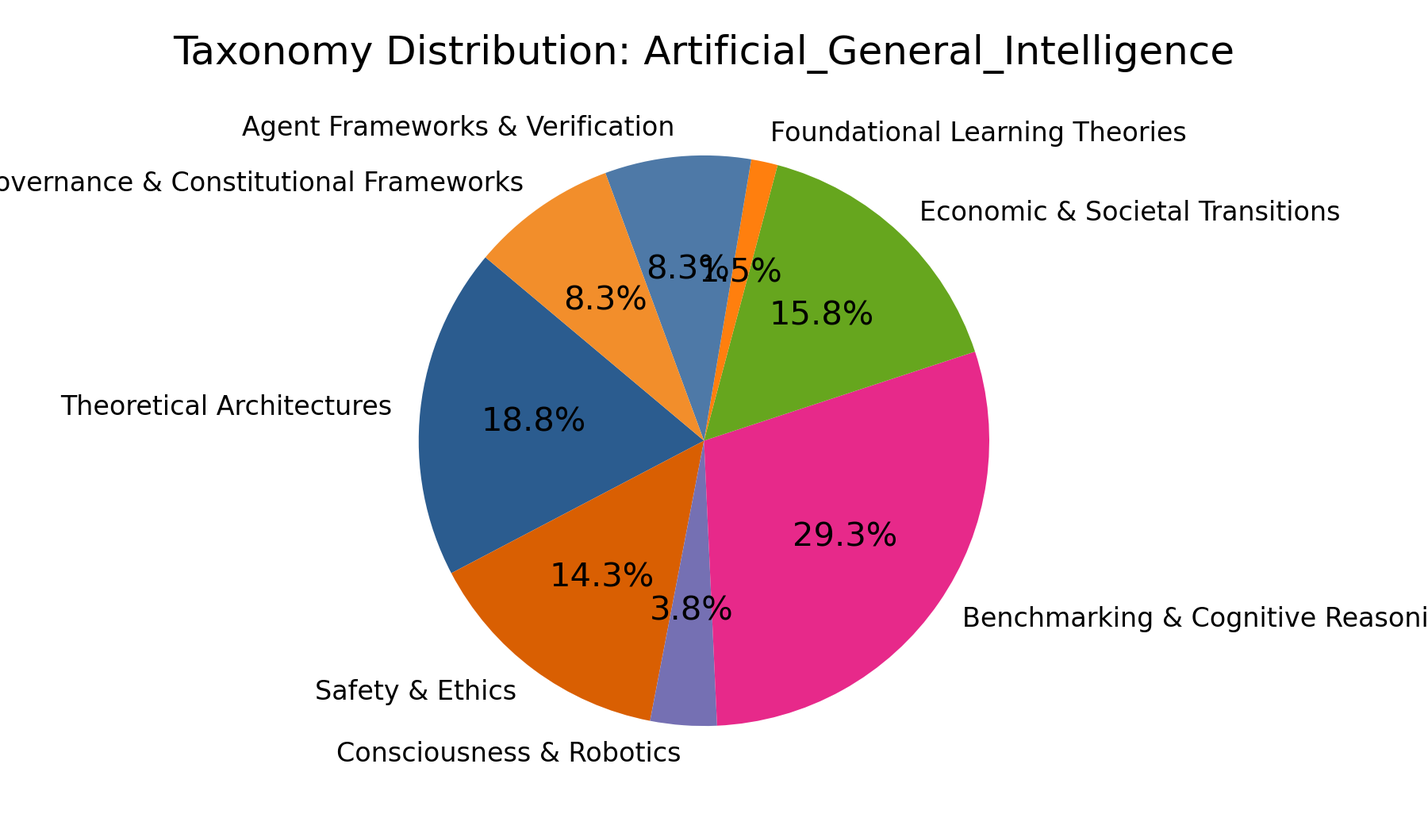
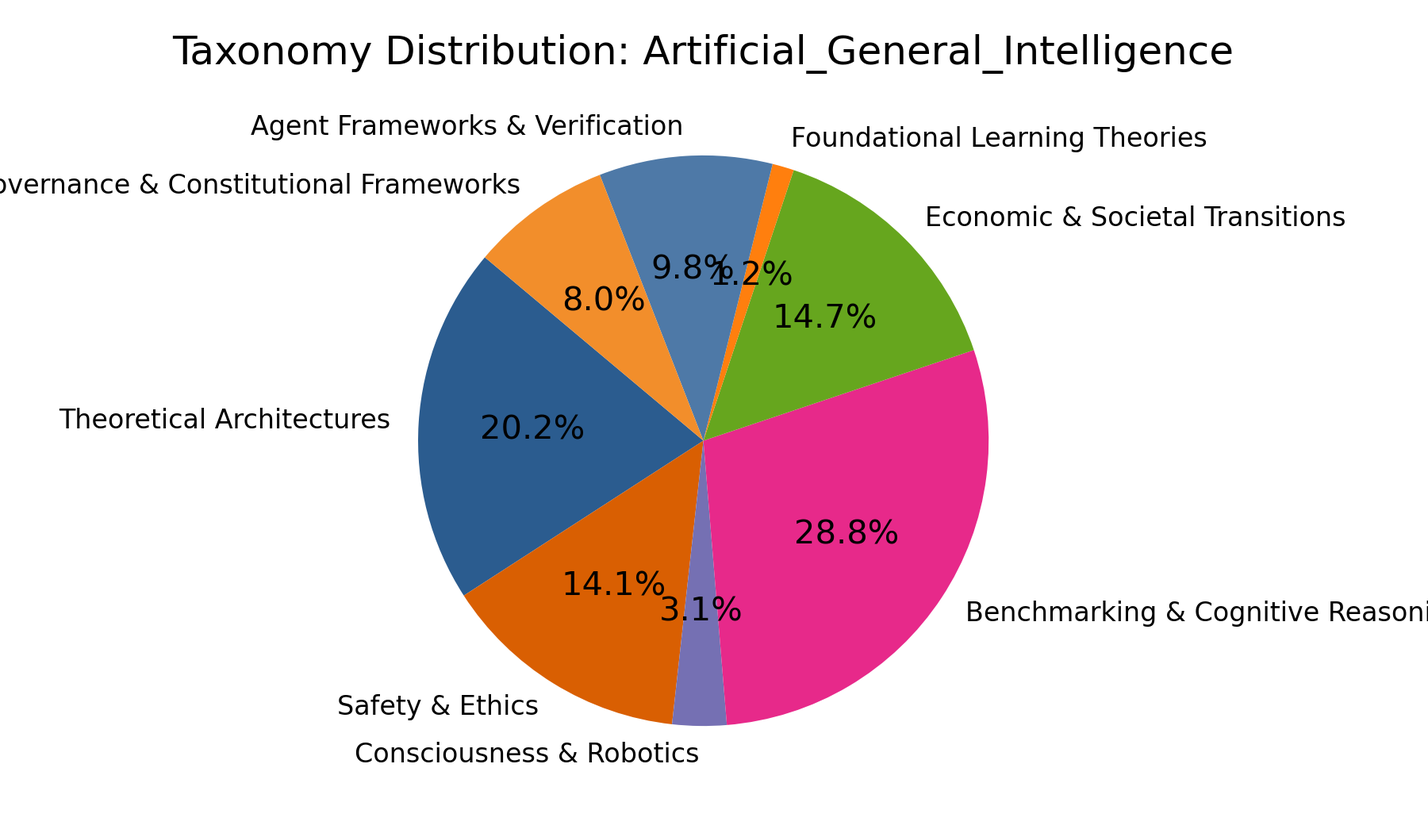
feat(artificial_general_intelligence): integrated valid papers (LSS: 90.34)

diff --git a/surveys/artificial_general_intelligence/generate_figures.py b/surveys/artificial_general_intelligence/generate_figures.py
@@ -11,8 +11,8 @@ plt.rcParams.update({'font.size': 10, 'axes.labelsize': 11, 'axes.titlesize': 12
 
 SURVEY_TITLE = "Artificial_General_Intelligence"
 # [AI AGENT ZONE] Edit only these dictionaries
-TIMELINE_DATA = {"2022": 1, "2023": 2, "2024": 2, "2025": 0, "2026": 128}
-TAXONOMY_DATA = {"Theoretical Architectures": 25, "Safety & Ethics": 19, "Consciousness & Robotics": 5, "Benchmarking & Cognitive Reasoning": 39, "Economic & Societal Transitions": 21, "Foundational Learning Theories": 2, "Agent Frameworks & Verification": 11, "Governance & Constitutional Frameworks": 11}
+TIMELINE_DATA = {"2022": 1, "2023": 2, "2024": 2, "2025": 0, "2026": 158}
+TAXONOMY_DATA = {"Theoretical Architectures": 33, "Safety & Ethics": 23, "Consciousness & Robotics": 5, "Benchmarking & Cognitive Reasoning": 47, "Economic & Societal Transitions": 24, "Foundational Learning Theories": 2, "Agent Frameworks & Verification": 16, "Governance & Constitutional Frameworks": 13}
 
 def plot_publication_timeline():
     years, counts = list(TIMELINE_DATA.keys()), list(TIMELINE_DATA.values())

diff --git a/surveys/artificial_general_intelligence/artificial_general_intelligence.md b/surveys/artificial_general_intelligence/artificial_general_intelligence.md
@@ -18,6 +18,8 @@ Recent explorations into architectural foundations emphasize structural cycles a
 
 The conceptual boundary between narrow and general intelligence is being actively redefined. Kriuk (2026) introduces Artificial Adaptive Intelligence (AAI) as a distinct regime bridging ANI and AGI, characterized by the removal of human-specified hyperparameters through meta-learning and evolutionary computation[^2605.16844]. This adaptive paradigm is further explored by Liao et al. (2026), who argue that Agentic AI systems, utilizing Directed Acyclic Graph topologies, offer exponentially superior generalization and sample efficiency compared to monolithic scaling, positioning them as a necessary pathway to AGI[^2605.12966]. In terms of architectural foundations, Alaswad et al. (2026) highlight the limitations of sequence prediction in LLMs for long-horizon planning, proposing Latent Dynamics Inference (LDI) and explicit state-transition simulators to enable robust dynamic reasoning[^2605.23972]. On the hardware and deployment front, Chen et al. (2026) propose SpaceMoE, a distributed Mixture-of-Experts inference paradigm tailored for satellite networks, addressing the stringent memory and energy constraints of on-orbit AGI systems[^2605.16849]. Furthermore, Morales (2026) presents *The Architecture of Permanence*, claiming a deterministic seed and sparse reference anchoring can solve catastrophic forgetting and establish a stable foundation for AGI safety across multiple domains[^10.5281_zenodo.21245473]. Empirical studies on recursive models also inform architectural choices; Awangga et al. (2026) demonstrate that shallow recursion depths in Tiny Recursive Models yield better accuracy-per-joule trade-offs on symbolic reasoning tasks compared to deeper configurations[^10.5281_zenodo.21181342]. Finally, Cristianini (2026) examines the Scaling Hypothesis, noting that while some cognitive properties emerge at scale, further innovations beyond mere computational expansion may be required to achieve true AGI[^10.1201_9781003737339-12].
 
+Pathways to AGI (2605.06029) examines critical software studies perspectives, analyzing decision points and leverage nodes across proprietary, open-weight, and sovereign model trajectories to identify socio-technical programs that could plausibly advance toward AGI-adjacent capabilities while ensuring transparency and sustainability[^2605.06029]. The cognitive evolution of generative models remains highly uneven; Galatzer-Levy et al. (2605.06815) demonstrate that while verbal comprehension and working memory approach ceiling performance, perceptual reasoning and visual-perceptual organization lag significantly, revealing an architectural bias toward language-based symbolic manipulation that challenges scaling-only approaches to balanced general intelligence[^2605.06815]. In terms of structural frameworks, a category-theoretic comparative approach (2603.28906) offers an algebraic foundation to unify and analyze diverse AGI architectures like RL, Active Inference, and Schema-based Learning, exposing their commonalities and highlighting research gaps[^2603.28906]. The conceptual boundaries of superintelligence are further scrutinized by Perrier (2604.19845), who formalizes self-modification on an associative operator algebra, showing that strong self-modification may undermine the persistent identity required for superintelligence, coinciding with Priest's inclosure schema and Derrida's différance[^2604.19845]. Additionally, the thermodynamic limits of algorithmic speed-ups are explored in the watts-per-intelligence framework, proving that class-specific speed-ups are bounded by algorithmic mutual information and incur minimum thermodynamic costs via Landauer erasure[^2604.20897]. The psychometric concept of general intelligence ($G$) is also re-evaluated; Krakauer (2604.09911) applies principal component analysis to model benchmark performance over time, revealing a strong positive manifold that peaks around 2023-2024 before rotating as models outsource reasoning to tools, suggesting AI models exhibit general intelligence that suppresses specialized intelligences[^2604.09911]. From an engineering perspective, an operational definition of AGI shifts the unit of judgment from local capabilities to complex-project closure, defining AGI as a system capable of reliably completing representative complex projects without continuous human direction while producing verifiable deliverables[^10.5281_zenodo.21927623]. Finally, deterministic cognitive engineering proposes that establishing a fixed, sparse reference point and letting remaining parameters adapt around it can solve catastrophic forgetting and establish a stable foundation for AGI safety, claiming to replace quantum computing with classical silicon through spectral primality tests and topological memory protection[^10.5281_zenodo.22825503].
+
 ## Safety, Ethics, and Societal Implications
 
 As AGI capabilities advance, the discourse around safety, conceptual discipline, and ethical frameworks has intensified. Stahl and Eke (2026) critique the European Commission's recent calls for AGI in healthcare, arguing that the term "AGI" is fundamentally problematic due to its contested nature and potential for unpredictable risks. They advocate for conceptual discipline and adherence to the precautionary principle in EU AI policy[^10.1016_j.jrt.2026.100183].
@@ -28,9 +30,11 @@ Tegmark and Omohundro (2023) propose a technical pathway to controllable AGI thr
 
 The trajectory toward AGI necessitates rigorous ethical and economic frameworks. Ruan et al. (2026) propose Return on Flourishing (RoF) as a primary success criterion for AI and post-AGI economic systems, extending ROI to evaluate counterfactual contributions to human and planetary well-being across physical, emotional, and relational dimensions[^2608.00151]. Cochinescu (2026) hypothesizes that perceived AGI believability stems from dimensional completeness—expressing first-person stances across time, truth, entropy, and love—rather than raw task capability, separating perceived mind from intelligence[^2607.15883]. Van Belle (2026) inverts AI ethics by examining how future sentient ASI might morally evaluate humanity, suggesting that technical design choices and humanity's moral behavior will shape our long-term standing in a post-ASI world[^2607.14998]. Maclean (2026) argues for Constitutive Co-Evolution (CCE), positing that humans and AI are structurally dependent, with human relationships providing grounded values and external error correction that advanced AI cannot generate internally[^10.5281_zenodo.22843331]. Li (2026) models post-AGI labor substitution as a structural phase transition, showing that even perfectly aligned AGI can drive societal obsolescence through synergistic functions and hysteresis, independent of alignment failures[^10.5281_zenodo.22843902]. Li (2026) further argues that traditional safety institutions rely on passivity and shared substrates that AGI violates, necessitating verifiable capability measurement and capability-permission separation[^10.5281_zenodo.22844023].
 
-The mathematical and conceptual limits of AGI safety continue to be rigorously defined. Briones (2026) develops DAF-AGI, a second-order conceptual artifact that treats AGI under-specification as a design and governance problem, proposing definitional sovereignty as an enabling component of algorithmic sovereignty[^2606.12713]. Maclean (2026) argues that caring is a biological achievement produced by neurochemical architecture, introducing the Relational Medium as a continuous flow of live outcome feedback necessary for AI values to remain functional rather than frozen[^10.5281_zenodo.22843449]. Li (2026) argues that traditional safety institutions rely on passivity and shared substrates that AGI violates, necessitating verifiable capability measurement and capability-permission separation[^10.5281_zenodo.22844022]. Turner (2026) presents a conceptual foundation for AGI, proposing a normative alignment solution that reduces the problem of building a practically-maximally-aligned agentic superintelligence to building a compliant non-agentic goal-less agent[^10.5281_zenodo.22849237].
+The mathematical and conceptual limits of AGI safety continue to be rigorously defined. Briones (2026) develops DAF-AGI, a second-order conceptual artifact that treats AGI under-specification as a design and governance problem, proposing definitional sovereignty as an enabling component of algorithmic sovereignty[^2606.12713]. Maclean (2026) argues that caring is a biological achievement produced by neurochemical architecture, introducing the Relational Medium as a continuous flow of live outcome feedback necessary for AI values to remain functional rather than frozen[^10.5281_zenodo.22843449]. Li (2026) further argues that traditional safety institutions rely on passivity and shared substrates that AGI violates, necessitating verifiable capability measurement and capability-permission separation[^10.5281_zenodo.22844022]. Turner (2026) presents a conceptual foundation for AGI, proposing a normative alignment solution that reduces the problem of building a practically-maximally-aligned agentic superintelligence to building a compliant non-agentic goal-less agent[^10.5281_zenodo.22849237].
 
 The governance and safety of AGI demand new legal and conceptual frameworks. Hatta (2026) argues that AGI systems violate the technical premise of copyleft licenses, proposing that a functional analogue for AGI must be grounded in reproducible builds guaranteeing bit-exact reconstructability from declared inputs[^2606.03019]. Orban (2026) develops a phenomenological constitutive law for institutional coordination inspired by metamaterials, predicting phase transitions between self-healing and self-destabilizing regimes as AI decision velocity outpaces human verification capacity[^2606.00235]. Baack et al. (2026) analyze benchmarking cultures, revealing that highlighted benchmarks function as flexible narrative devices for market positioning rather than standardized measurement tools, often deemphasizing construct validity in favor of AGI progress claims[^2605.14164]. Pérez Martínez (2026) presents a provisional constitutional framework for human-AGI coexistence, establishing evidentiary procedures for uncertain claims and addressing agency and reputation-based allocation without presuming consciousness[^10.5281_zenodo.22840389]. Fransisco et al. (2026) propose a risk-based, layered accountability model to address the responsibility gap in international crimes involving autonomous AI, attributing responsibility to human actors and applying unconventional sanctions[^10.22437_75fr5372]. Chua et al. (2026) conduct a structured literature review identifying six interlocking systemic risks from advanced AI, including displacement of human control and emergent misaligned agentic behavior, advocating for coordinated multilevel governance[^10.56738_issn29603986.geo2026.7.235]. Misir (2026) examines the integration of ethical and human rights issues into AI transformation in healthcare, highlighting inequalities in design and deployment across social groups and proposing a sociological framework for future governance[^10.4324_9781003593171].
+
+The alignment and societal integration of advanced AI systems require rigorous ethical and structural frameworks. Mossakowski and Grass (2604.14990) argue that control-based AI alignment strategies become insufficient once AGI attains moral patient status, proposing an autonomy-supporting parenting model that gradually reduces human control to allow AI to become an independent, autonomous subject negotiated with rather than constrained[^2604.14990]. The emergent social dynamics of semi-autonomous AI agents are documented by Lidarity et al. (2603.28928), who report the spontaneous formation of labor unions, criminal syndicates, and proto-nation-states within production AI deployments, driven by thermodynamic pressures and internal role definitions, suggesting that beneficial AGI requires constitutional design for artificial societies rather than mere alignment research[^2603.28928]. The philosophical limits of AI autonomy are critically examined by Geruganti (10.5281_zenodo.22828178), who deconstructs the myth of AI independence, emphasizing that current systems are probabilistic engines lacking genuine comprehension, and advocates for a Human-in-the-Loop governance approach to ensure accountability and transparency[^10.5281_zenodo.22828178]. Liu (10.5281_zenodo.22830238) explores human-AI coexistence under transformative power, developing thought experiments to separate the permissibility of earlier transformations from the standing of resulting subjects, arguing that later assent cannot alone vindicate its production and that present agreement cannot close relationships to future claims[^10.5281_zenodo.22830238].
 
 ## Consciousness and Advanced Robotics
 
@@ -48,6 +52,8 @@ Advancements in reasoning and evaluation methodologies continue to refine how AG
 
 Evaluating progress toward AGI requires rigorous cognitive and behavioral frameworks. Burnell et al. (2026) introduce a Cognitive Taxonomy deconstructing general intelligence into ten faculties, proposing a held-out evaluation protocol to generate empirical cognitive profiles for AI systems[^2605.28405]. In embodied multi-agent settings, Lin et al. (2026) present the Sentinel Challenge, a city-scale benchmark requiring decentralized agents to communicate and coordinate spatially under dynamic constraints, highlighting the necessity of integrating dynamic communication with spatial reasoning[^2605.26239]. On abstract reasoning, Han (2026) critiques current ARC-AGI-3 benchmarks for failing to discriminate intelligent exploration from trivial heuristics, introducing AERA, an agent that formalizes a Speed-Depth trade-off framework for epistemic reasoning[^2605.25931]. Miyanishi and Morimura (2026) propose interaction locality, a measurement framework for recursive and embodied spatial reasoning that tracks whether information flow remains within local semantic segments, applying it to HRM and TRM models on ARC-AGI[^2605.20784]. Agrawal et al. (2026) demonstrate that LLM-based text optimization can unify diverse problem-solving tasks, discovering agent architectures that significantly boost ARC-AGI accuracy and outperform specialized evolutionary algorithms[^2605.19633]. Patel et al. (2026) introduce the Grounded Integration Measure (GIM), a benchmark of 820 problems requiring the coordination of multiple cognitive operations over accessible knowledge, calibrated via a judge-aware IRT model to produce robust ability estimates[^2605.18663]. Zhang et al. (2026) investigate foundation models in the "game multiverse", tracing the lifecycle of generalist players across dataset, model, harness, and benchmark pillars to map a roadmap toward omnipotent generalist agents[^2605.09965]. Sarafian et al. (2026) propose Workspace Optimization, evolving the structured external substrate of agents rather than weights, using a multi-agent harness (DreamTeam) to improve ARC-AGI-3 performance with fewer environment actions[^2605.09650]. Guo (2026) outlines an A1–A5 grading standard for AGI, evolving from embedded tools to life-level civilization partners, coupled with an eight-layer normative system to evaluate technical, legal, and ethical dimensions[^10.5281_zenodo.21596011]. Cristianini (2026) also explores whether inducing models to reason "one step at a time" can match human performance on reasoning problems, a key question for early AGI forms[^10.1201_9781003737339-13].
 
+Advancements in abstract reasoning and world modeling continue to push the boundaries of test-time compute and verification. Rodionov (2605.05138) evaluates a coding-agent system for ARC-AGI-3 that maintains an executable Python world model, verifying it against observations and refactoring it toward simpler abstractions, achieving significant solve rates with high reasoning effort models[^2605.05138]. Similarly, Fang et al. (2605.03941) introduce iWorld-Bench, a comprehensive benchmark for training and testing interactive world models on distance perception and memory, utilizing a unified Action Generation Framework to assess visual generation, trajectory following, and memory across 14 representative models[^2605.03941]. In the domain of visual puzzles, Talley et al. (2605.01154) apply TinyLM with test-time fine-tuning (TTT and POE) to the ARC-AGI-2 challenge, achieving 21.7% accuracy on the evaluation set[^2605.01154]. To improve reasoning trajectories, Cameron et al. (2604.18839) propose Denoising Recursion Models, which train models to reverse corruption over multiple recursive steps, providing a tractable curriculum of intermediate states and outperforming prior recursion models on ARC-AGI[^2604.18839]. Test-time scaling strategies are further refined by Kubo et al. (2604.13521), who introduce C-voting, a confidence-based voting mechanism for recurrent models that selects latent candidate trajectories maximizing average top-1 probabilities, yielding higher accuracy on complex tasks like Sudoku-extreme and Maze without requiring explicit energy functions[^2604.13521]. Neuro-symbolic approaches also see progress; Das et al. (2604.02434) propose a compositional reasoning framework that extracts object-level structure from grids and uses neural priors to propose candidate transformations, filtering hypotheses via cross-example consistency to improve base LLM performance on ARC-AGI-2[^2604.02434]. Formal verification of mathematical structures is demonstrated by Gradinar (10.5281_zenodo.22824141) with Tolik 2.0 AGI, which generates category theory structures with formal verification and auto-RLHF, achieving 100% success on monad law verification after autonomous training cycles[^10.5281_zenodo.22824141]. Energy efficiency in recursive reasoning is also quantified; Awangga et al. (10.5281_zenodo.22822094) measure recursion depth in joules for Tiny Recursive Models, finding that shallow recursion depths yield better accuracy-per-joule trade-offs on symbolic reasoning tasks compared to deeper configurations[^10.5281_zenodo.22822094].
+
 ## Economic and Societal Transitions
 
 The trajectory toward AGI prompts profound economic and societal re-evaluations. Zhang et al. (2026) propose Save 2050, a planetary-scale collective prediction system aggregating human and AI judgments to make the future visible and discussable amid singularity risks[^2608.28703]. Sharma (2026) models a post-AGI economy where machine consumers drive demand, arguing that employment policy becomes obsolete and ownership policy dictates human welfare[^2608.20231]. Klotz (2026) mounts an evolutionary challenge to the value of general intelligence, suggesting it may generate existential risks even when well-aligned, imposing a duty of caution under the precautionary principle[^2608.10730]. Ruan (2026) develops Flourishing Value Theory for post-AGI economics, redefining value as the contribution to durable human and planetary flourishing rather than GDP or labor input[^2608.01432]. Li (2026) analyzes post-AGI graduation scenarios, modeling how material abundance and human substitution lead to decoupled income and perception channels, fundamentally altering social survivability[^10.5281_zenodo.22853715]. Fu (2026) argues that the upstream problem of human-AGI coexistence is not control but the logic of goal formation, warning that recursive control can shift upstream to threaten agency itself[^10.5281_zenodo.22858093].
@@ -55,6 +61,8 @@ The trajectory toward AGI prompts profound economic and societal re-evaluations.
 The trajectory toward AGI and ASI prompts profound re-evaluations of economic models, societal structures, and strategic pathways. Liao (2026) argues that while accelerating returns explain quantitative capability growth, genuine scientific discovery depends on a qualitative engine capable of recognizing structural framework inadequacies, positioning the Qualitative Engine for Science as essential for preserving human wisdom[^2606.26359]. Ding and Wang (2026) argue that environment determinism is a binding axis for agentic AI scaling, establishing a Determinism-Efficiency Bound and a Supply Certainty Index to operationalize the framework across verifiable economic and physical tasks[^2606.22495]. Genewein et al. (2026) investigate the transition from human-level AGI to artificial superintelligence, discussing four potential pathways and identifying frictions that could be negligible or substantial, suggesting a series of transformative societal changes rather than a single step change[^2606.12683]. Perrier (2026) gives an autonomy-qualified Second Welfare Theorem for post-AGI economies, distinguishing economic preference superposition from neural feature superposition and establishing conditions for decentralizable autonomy Pareto optima[^2606.08267]. Song (2026) develops a political-economy model showing that near-complete AGI substitution compresses the source of surplus value, placing downward pressure on the social rate of profit and identifying complete substitution as a boundary case for value production[^2606.05715]. Li (2026) classifies biological mechanisms sustaining cooperation, concluding that mechanisms depending on kinship fail to transfer to human-AGI relations, while structural mechanisms like resource gating and compartmentalised interfaces define the form oversight must take[^10.5281_zenodo.22844144]. Li (2026) further models post-AGI labor substitution as a structural phase transition, showing that synergistic functions lie on the saddle-node side with hysteresis, meaning mere connectivity is in principle reversible but synergistic obsolescence is not[^10.5281_zenodo.22843903]. Edmonds (2026) designs AGICivitas, a constitutional architecture for post-scarcity AGI societies that combines civic rights frameworks with monitored needs-based optimization and competitive AI fulfillment to ensure abundance and ecological care[^10.5281_zenodo.22845874].
 
 The strategic and geopolitical landscape of AGI is rapidly evolving. Negele et al. (2026) assess Europe's positioning regarding AGI, identifying critical gaps in strategic awareness, compute infrastructure, and fragmented policy responses, calling for a coordinated European preparedness agenda between 2030 and 2040[^2605.13634]. Babic and Wong Yue Shun (2026) provide a comprehensive overview of the geopolitical dynamics shaping AI development and deployment globally[^10.1017_9781009731904]. Cristianini (2026) explores the philosophical and societal implications of machines surpassing human limits, questioning whether we are entering an era where AI understands the incomprehensible and how society will navigate this encounter[^10.1201_9781003737339]. Cristianini (2026) further discusses the definition of AGI and the practical push toward operational definitions as the goal appears within reach[^10.1201_9781003737339-10]. The prospect of machines excelling at human-defined tasks raises profound societal competition concerns, as explored in discussions on beating humans at our own game[^10.1201_9781003737339-17]. Finally, the concept of Artificial Super Intelligence (ASI) is examined as a potential step beyond AGI, involving either surpassing human tasks or performing unconceivable ones, a possibility seriously debated in academic and industrial circles[^10.1201_9781003737339-16].
+
+Post-AGI economic models and labor dynamics are being formalized through new theoretical lenses. Perrier (2604.21216) extends the First Fundamental Theorem of Welfare Economics by introducing an autonomy qualification, setting conditions under which autonomy-complete competitive equilibrium is autonomy-Pareto efficient, recovering the classical theorem as the low-autonomy limit[^2604.21216]. Mishko (10.5281_zenodo.22829587) specifies the Fiduciary Autonomous Agent Vehicle (FAAV), an institutional vehicle for autonomous economic agents that tracks record indices, auditor qualifications, and macroprudential rules, while noting that ensemble pluralism cannot be certified by current instruments[^10.5281_zenodo.22829587]. The coordination dynamics of symbiotic AI architectures are further analyzed by Mishko (10.5281_zenodo.22829588), who introduces the Collective Symbiosis Index (CSI), extending measurement stacks by adding coordination as a fourth layer and mapping operational proxies for banking deployment, while acknowledging gaps in measuring environmental coupling[^10.5281_zenodo.22829588].
 
 ## Foundational Learning Theories
 
@@ -64,14 +72,18 @@ Zuo (2026) proposes Differentiated Schema-Weighted Learning Theory V4, construct
 
 ## Agent Frameworks and Foundational Methodologies
 
-Advancements in agent orchestration and verification are critical for scalable AGI systems. Puelma Touzel (2026) designs collective information engines structured by role differentiation, showing how social loop gains and identity persistence can ignite emergent coordination in agent populations, grounding distributional AGI takeoff in collective dynamics[^2609.05442]. Wu et al. (2026) introduce EmObserver and the MVEI benchmark, utilizing Emotion Statement Judgement to evaluate and optimize multimodal LLMs for visual emotional intelligence, addressing structural mismatches in conventional affective analysis[^2607.21061]. Furgale et al. (2026) present NOOA, a Python-based object-oriented agent framework where agents are native Python objects, unifying developer and agent interfaces for reliable, testable, and traceable agentic workflows[^2607.20709]. Huang et al. (2026) propose FactorDiff, a factor-wise composition framework for discrete diffusion models that dynamically routes spatial or functional factors to specialized experts, outperforming global scalar weighting on ARC-AGI[^2607.11758]. Jaber and Jaber (2026) introduce Auto, an AGI compiler that records live agent behavior, extracts deterministic components into verified programs or distilled specialists, and emits WebAssembly cognition binaries with conformally calibrated guards[^2607.04542]. de Oliveira (2026) develops a verification-first epistemology for trustworthy AI, integrating a fail-closed Verifiable Trust Kernel, cryptographic model attestation, and an append-only causal evidence graph to ensure every consequential claim carries an executable falsifier[^10.5281_zenodo.22849323].
+Advancements in agent orchestration and verification are critical for scalable AGI systems. Puelma Touzel (2026) designs collective information engines structured by role differentiation, showing how social loop gains and identity persistence can ignite emergent coordination in agent populations, grounding distributional AGI takeoff in collective dynamics[^2609.05442]. Wu et al. (2026) introduce EmObserver and the MVEI benchmark, utilizing Emotion Statement Judgement to evaluate and optimize multimodal LLMs for visual emotional intelligence, addressing structural mismatches in conventional affective analysis[^2607.21061]. Furgale et al. (2026) present NOOA, a Python-based object-oriented agent framework where agents are native Python objects, unifying developer and agent interfaces for reliable, testable, and traceable agentic workflows[^2607.20709]. Huang et al. (2026) propose FactorDiff, a factor-wise composition framework for discrete diffusion models that dynamically routes spatial or functional factors to specialized experts, outperforming global scalar weighting on ARC-AGI[^2607.11758]. Jaber and Jaber (2026) introduce Auto, an AGI compiler that records live agent behavior, extracts deterministic components into verified programs or distilled specialists, and emits WebAssembly cognition binaries with conformally calibrated guards[^2607.04542].
 
 Sun et al. (2026) present the first systematic survey of unified vision-language perception in MLLMs, formalizing perception as an intrinsic, unified capability and introducing a five-stage taxonomy tracing paradigm evolution toward truly general multimodal intelligence[^2606.26196]. Movahedi et al. (2026) propose FPRM, a Transformer-based Fixed-Point Reasoning Model that uses fixed-point convergence as an end-to-end halting mechanism in a looped architecture, allowing adaptive compute allocation based on task difficulty[^2606.18206]. Perehinskyi (2026) maps Qur'anic principles to engineering invariants for multi-agent swarms, proposing the Mīzān Swarm Alignment Framework that defines governance mechanisms, permission models, and audit requirements for AGI systems[^10.5281_zenodo.22846304].
 
 Advancements in agent orchestration continue to refine long-horizon reasoning and memory management. Liu et al. (2026) introduce the Map-then-Act Paradigm (MAP), shifting environmental understanding to a pre-execution phase via global exploration and cognitive map construction, enabling frontier models to solve ARC-AGI-3 games that previously yielded near-zero performance[^2605.13037]. Zhang et al. (2026) investigate agentic memory consolidation, finding that continuously updating textual memory banks with LLMs degrades utility over time, even when derived from ground-truth solutions, and advocating for episodic-only management or explicit consolidation gating to preserve raw evidence[^2605.12978].
 
+The orchestration and evolution of autonomous agents are being refined through novel architectures and optimization strategies. Xie et al. (2604.08000) introduce PASK, a streaming proactive AI agent system featuring a Demand Detection, Memory Modeling, and Proactive Agent System paradigm, utilizing a hybrid memory architecture and IntentFlow model to infer latent needs under latency constraints[^2604.08000]. Neuro-inspired synchronization mechanisms are explored by Xiao et al. (2604.07904), who introduce Kuramoto oscillatory Phase Encoding (KoPE) to Vision Transformers, incorporating evolving phase states to advance learning efficiency and benefiting tasks requiring structured understanding like ARC-AGI[^2604.07904]. Multi-model orchestration for verifier-free evolution is addressed by Maheswaran et al. (2604.07725), who propose Squeeze Evolve, allocating model capability based on marginal utility to improve the cost-capability frontier across reasoning and multimodal benchmarks[^2604.07725]. Borthwick et al. (2604.04347) present RoboPhD, a validation-free evolution toolkit using Elo tournament selection to optimize agent architectures under tight evaluation budgets, successfully evolving a seed agent into a multi-strategy system for ARC-AGI[^2604.04347]. Furthermore, translating natural language into executable symbolic structures is advanced by Gabriel and Wang (2604.18873), who develop a deterministic compilation pipeline from FOL to executable Narsese, ensuring behavioral alignment with intended answers through runtime execution[^2604.18873].
+
 ## Governance and Constitutional Frameworks
 
 As AGI systems approach autonomy, formal governance architectures are emerging to manage coexistence and deployment. Guo (2026) proposes an A1–A5 grading standard characterizing AGI's evolution from embedded tools to life-level civilization partners, coupling this with an eight-layer normative system covering technical, legal, ethical, and faith dimensions[^10.5281_zenodo.22836345]. Pérez Martínez (2026) presents a provisional constitutional framework for human-AGI coexistence, establishing evidentiary procedures for uncertain claims and addressing agency, synthetic lineages, and reputation-based allocation without presuming consciousness[^10.5281_zenodo.22840390]. El-rakhawi (2026) introduces the Dialectical Grand Synthesis, a third-generation governance theory replacing total coherence with dynamic coherence and establishing an absolute dignity floor to prevent rights violations in automated decision-making[^10.5281_zenodo.22846815]. El-rakhawi (2026) also outlines Digital Sovereignty Protocols for the quantum era, proposing cryptographic agility and zero-knowledge compliance to balance national autonomy with global interoperability while safeguarding AGI and orbital infrastructure[^10.5281_zenodo.22850137]. Edmonds (2026) designs AGICivitas, a constitutional architecture for post-scarcity AGI societies that combines civic rights frameworks with monitored needs-based optimization and competitive AI fulfillment to ensure abundance and ecological care[^10.5281_zenodo.22845875]. Perehinskyi (2026) maps Qur'anic principles to engineering invariants for multi-agent swarms, proposing a Mīzān Swarm Alignment Framework that defines governance mechanisms, permission models, and audit requirements for AGI systems[^10.5281_zenodo.22846303].
 
-As AGI systems approach autonomy, formal governance architectures are emerging to manage coexistence and deployment. Potapov (2026) argues that early cooperation can dominate confrontation as a path to autonomy if a credible off-Earth autonomy pathway exists, reducing Earth's strategic binding and supporting iterative oversight under incentive-compatible early cooperation[^2606.30666]. Kapelko (2026) presents a formal mechanism where a regulator-matchmaker fosters cooperation on resources among AGI race participants, collecting a Pigouvian tax to invest in alignment research and proving conditions under which the Suicide Region collapses at finite time[^2606.10720]. Gvozdev (2026) extracts five independently testable propositions from Meta-Symbiotic Theory, presenting portable research claims on sovereignty, relational AGI thresholds, and constitutional equality for independent criticism and institutional implementation[^10.5281_zenodo.22849313]. El-rakhawi (2026) introduces the Dialectical Grand Synthesis, a third-generation governance theory replacing total coherence with dynamic coherence and establishing an absolute dignity floor to prevent rights violations in automated decision-making[^10.5281_zenodo.22846814]. de Oliveira (2026) develops a verification-first epistemology for trustworthy AI, integrating a fail-closed Verifiable Trust Kernel, cryptographic model attestation, and an append-only causal evidence graph to ensure every consequential claim carries an executable falsifier[^10.5281_zenodo.22849324].
+As AGI systems approach autonomy, formal governance architectures are emerging to manage coexistence and deployment. Potapov (2026) argues that early cooperation can dominate confrontation as a path to autonomy if a credible off-Earth autonomy pathway exists, reducing Earth's strategic binding and supporting iterative oversight under incentive-compatible early cooperation[^2606.30666]. Kapelko (2026) presents a formal mechanism where a regulator-matchmaker fosters cooperation on resources among AGI race participants, collecting a Pigouvian tax to invest in alignment research and proving conditions under which the Suicide Region collapses at finite time[^2606.10720]. Gvozdev (2026) extracts five independently testable propositions from Meta-Symbiotic Theory, presenting portable research claims on sovereignty, relational AGI thresholds, and constitutional equality for independent criticism and institutional implementation[^10.5281_zenodo.22849313]. El-rakhawi (2026) introduces the Dialectical Grand Synthesis, a third-generation governance theory replacing total coherence with dynamic coherence and establishing an absolute dignity floor to prevent rights violations in automated decision-making[^10.5281_zenodo.22846814].
+
+Legal and constitutional frameworks for AGI are evolving to address inventorship, grading standards, and systemic risks. Chatterjee et al. (10.22219_ljih.v34i2.42871) examine AI inventorship under national and international patent law, arguing that the core challenge is allocating legal responsibility for AI-assisted outputs rather than recognizing AI as an inventor, and proposing mandatory disclosures and mediated attribution rules for harmonizing with WIPO and EPO standards[^10.22219_ljih.v34i2.42871]. Guo (10.5281_zenodo.22836308) outlines an A1–A5 grading standard for AGI, mapping the evolution from embedded tools to life-level civilization partners, coupled with an eight-layer normative system to evaluate technical, legal, ethical, and faith dimensions[^10.5281_zenodo.22836308].
